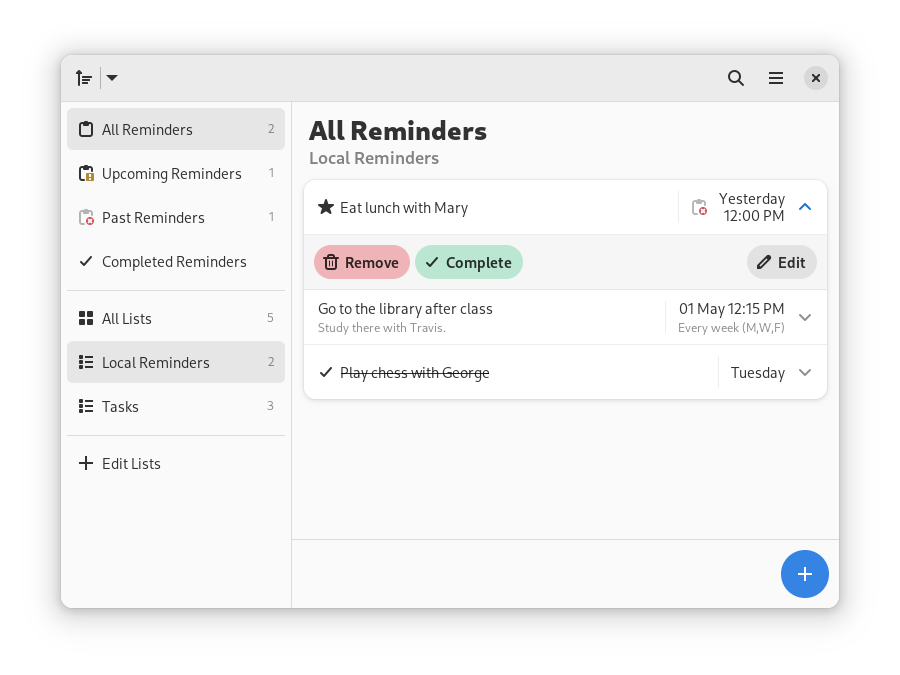
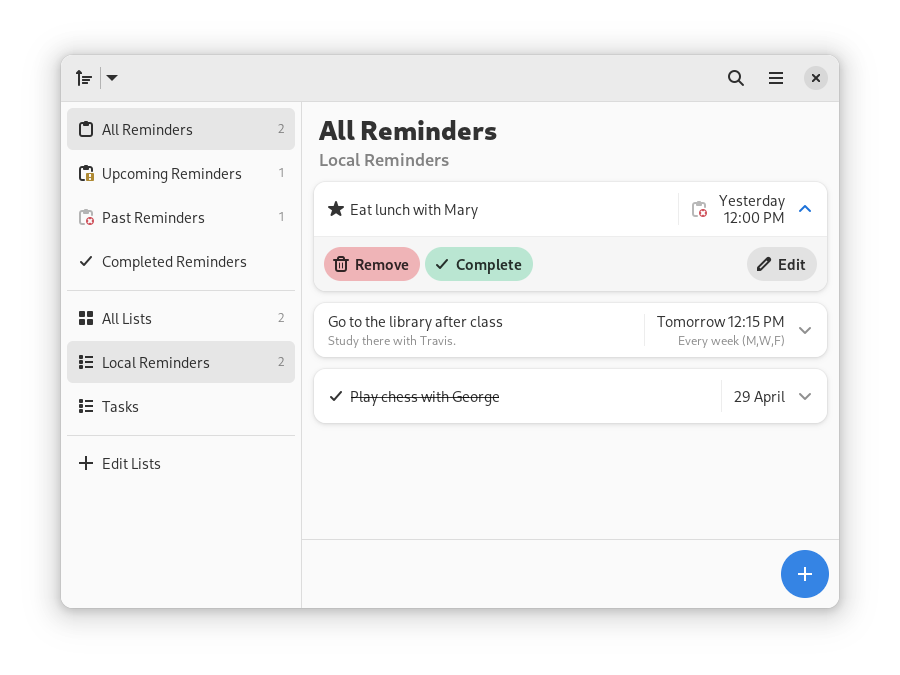
Style improvements

diff --git a/src/browser/resources/stylesheet.css b/src/browser/resources/stylesheet.css
@@ -252,7 +252,7 @@ button.refresh:dir(rtl)  {
     margin-right: 6px;
 }
 
-/* Elaborate fix for https://gitlab.gnome.org/GNOME/gtk/-/issues/5309 */
+/* Elaborate fix for https://gitlab.gnome.org/GNOME/gtk/-/issues/5309
 .reminders-list > row:nth-last-child(2),
 .reminders-list > row.expander:nth-last-child(2):not(:checked) > box > list > row.header,
 .reminders-list > row.expander:nth-last-child(2) > box > revealer > list.nested > row:last-child {
@@ -271,7 +271,7 @@ button.refresh:dir(rtl)  {
     border-top-left-radius: 12px;
     border-top-right-radius: 12px;
 }
-
+*/
 
 /* Add support for nested expander */
 list.nested row.header,
@@ -295,4 +295,22 @@ list.nested list.nested {
 .navigation-sidebar row:drop(active) {
     color: @accent_bg_color;
     box-shadow: inset 0 0 0 1px @accent_bg_color;
+}
+
+
+.reminders-list {background-color: transparent; box-shadow: none;}
+.reminders-list > row {margin-bottom: 12px; background-color: @card_bg_color;}
+.reminders-list > row row.header {border-top-left-radius: 12px; border-top-right-radius: 12px;}
+.reminders-list > row:not(:checked) row.header {border-radius: 12px; border-bottom: 0;}
+
+.reminder list:not(.nested) {border-radius: 12px;}
+
+.reminder list.nested {border-bottom-left-radius: 12px; border-bottom-right-radius: 12px; background-color: alpha(@card_shade_color, 0.5);}
+.reminder list.nested row:last-child {border-bottom: 0;}
+.reminders-list > row.expander:nth-last-child(2) {
+    margin-bottom: 0;
+}
+
+.dnd-reminder {
+    margin: 6px;
 }

diff --git a/src/browser/main_window.py b/src/browser/main_window.py
@@ -99,9 +99,12 @@ class MainWindow(Adw.ApplicationWindow):
             title=_('Nothing to see here!'),
             subtitle=_('Press the plus button below to add a reminder')
         )
+        self.placeholder.add_css_class('card')
         self.search_placeholder = Adw.ActionRow(
             title=_('No reminders match your search')
         )
+        self.search_placeholder.add_css_class('card')
+
         self.set_title(info.app_name)
         self.set_icon_name(info.app_id)
         self.dropdown_connection = None
@@ -443,7 +446,8 @@ class MainWindow(Adw.ApplicationWindow):
             else:
                 type_name = str(repeat_frequency) + ' ' + _('weeks')
 
-            suffix = f" ({','.join(days)})"
+            if repeat_days != 0:
+                suffix = f" ({','.join(days)})"
         elif repeat_type == info.RepeatType.MONTH:
             if repeat_frequency == 1:
                 type_name = _('month')
@@ -905,7 +909,7 @@ class MainWindow(Adw.ApplicationWindow):
             return task_list == selected_list_id
 
     def no_filter(self, reminder):
-        reminder.set_sensitive(True)
+        #reminder.set_sensitive(True)
         reminder.set_no_strikethrough(True)
         return True
 
@@ -913,7 +917,7 @@ class MainWindow(Adw.ApplicationWindow):
         retval = self.task_list_filter(reminder, list_id)
         if not just_filter:
             reminder.set_no_strikethrough(False)
-            reminder.set_sensitive(retval)
+            #reminder.set_sensitive(retval)
             if not retval:
                 self.reminders_list.unselect_row(reminder)
                 reminder.set_selectable(False)
@@ -926,7 +930,7 @@ class MainWindow(Adw.ApplicationWindow):
         else:
             retval = False
         if not just_filter:
-            reminder.set_sensitive(retval)
+            #reminder.set_sensitive(retval)
             if not retval:
                 self.reminders_list.unselect_row(reminder)
                 reminder.set_selectable(False)
@@ -940,7 +944,7 @@ class MainWindow(Adw.ApplicationWindow):
         else:
             retval = False
         if not just_filter:
-            reminder.set_sensitive(retval)
+            #reminder.set_sensitive(retval)
             if not retval:
                 self.reminders_list.unselect_row(reminder)
                 reminder.set_selectable(False)
@@ -954,7 +958,7 @@ class MainWindow(Adw.ApplicationWindow):
         else:
             retval = False
         if not just_filter:
-            reminder.set_sensitive(retval)
+            #reminder.set_sensitive(retval)
             if not retval:
                 self.reminders_list.unselect_row(reminder)
                 reminder.set_selectable(False)
@@ -1102,7 +1106,7 @@ class MainWindow(Adw.ApplicationWindow):
         if retval:
             reminder.set_no_strikethrough(True)
 
-        reminder.set_sensitive(retval)
+        #reminder.set_sensitive(retval)
         if not retval:
             self.reminders_list.unselect_row(reminder)
             reminder.set_selectable(False)

diff --git a/src/service/ms_to_do.py b/src/service/ms_to_do.py
@@ -588,7 +588,10 @@ class MSToDo():
 
             reminder_json['recurrence']['pattern']['daysOfWeek'] = []
             if reminder['repeat-days'] == 0:
-                reminder_json['recurrence']['pattern']['daysOfWeek'].append(DAYS[datetime.date.today().weekday()])
+                if reminder['timestamp'] != 0:
+                    reminder_json['recurrence']['pattern']['daysOfWeek'].append(DAYS[datetime.datetime.fromtimestamp(reminder['timestamp'], tz=datetime.timezone.utc).date().weekday()])
+                else:
+                    reminder_json['recurrence']['pattern']['daysOfWeek'].append(DAYS[datetime.datetime.fromtimestamp(reminder['due-date'], tz=datetime.timezone.utc).date().weekday()])
             else:
                 repeat_days_flag = info.RepeatDays(reminder['repeat-days'])
                 for num, flag in (
@@ -653,6 +656,6 @@ class MSToDo():
                     flags = list(info.RepeatDays.__members__.values())
                     for day in task['recurrence']['pattern']['daysOfWeek']:
                         index = DAYS.index(day)
-                        reminder['repeat-days'] += flags[index]
+                        reminder['repeat-days'] += int(flags[index])
 
         return reminder

diff --git a/src/service/caldav.py b/src/service/caldav.py
@@ -455,7 +455,10 @@ class CalDAV():
             if reminder['repeat-type'] == info.RepeatType.WEEK:
                 repeat_days = []
                 if reminder['repeat-days'] == 0:
-                    repeat_days.append((datetime.date.today().weekday() + 1) % 7)
+                    if reminder['timestamp'] != 0:
+                        repeat_days.append(DAYS[datetime.datetime.fromtimestamp(reminder['timestamp'], tz=datetime.timezone.utc).date().weekday()])
+                    else:
+                        repeat_days.append(DAYS[datetime.datetime.fromtimestamp(reminder['due-date'], tz=datetime.timezone.utc).date().weekday()])
                 else:
                     repeat_days_flag = info.RepeatDays(reminder['repeat-days'])
                     for index, flag in enumerate((
@@ -565,6 +568,6 @@ class CalDAV():
 
                 for day in days:
                     index = DAYS.index(day)
-                    reminder['repeat-days'] += flags[index]
+                    reminder['repeat-days'] += int(flags[index])
 
         return reminder

diff --git a/src/browser/dnd_reminder.py b/src/browser/dnd_reminder.py
@@ -64,3 +64,4 @@ class DNDReminder(Adw.ActionRow):
 
         self.set_size_request(self.get_allocated_width(), -1)
         self.add_css_class('card')
+        self.add_css_class('dnd-reminder')

diff --git a/REMEMBRANCE_SERVICE.md b/REMEMBRANCE_SERVICE.md
@@ -25,7 +25,7 @@ On what interval to repeat the reminder.
 - YEAR = 6
 
 ### RepeatDays
-What days to repeat on for weekly repeating reminders, can be zero to just use the weekday of the Reminder's timestamp, or add multiple values together to repeat on multiple days.
+What days to repeat on for weekly repeating reminders, or add multiple values together to repeat on multiple days. This can technically be zero but its better if you set a value.
 - MON = 1
 - TUE = 2
 - WED = 4
